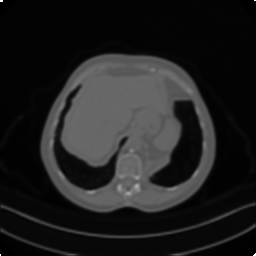
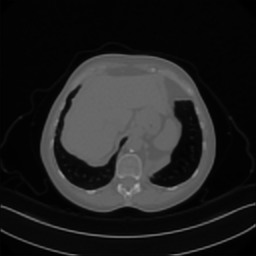
Training and Performances Log

diff --git a/MyUtilities.py b/MyUtilities.py
@@ -52,6 +52,8 @@ class MyTrainer():
         self.best_model = best_model
         self.betchTrainingValidationPrint = betchTrainingValidationPrint
         self.evalMetrich = evalMetrich
+        self.modelEvaluationOnTest = []
+        self.modelEvaluationOnImages = []
 
     def evaluate(self, samples, grad = False):
         x, y = samples # (x, y): x = grandTruth, y = LowResolution x = [x1,x2,x3....], y = [y1,y2,y3....]
@@ -95,7 +97,18 @@ class MyTrainer():
             else:
                 CumulativeEvaluation += test_Loss.item()
 
-        print(f'⚠️: Average {self.evalMetrich.__name__ if self.evalMetrich else "Loss function"} on Test Set: {CumulativeEvaluation/samplesCounter if self.evalMetrich else CumulativeEvaluation/len(self.test_loader):.4f}')
+        if self.evalMetrich:
+            key = self.evalMetrich.__name__
+            avg = CumulativeEvaluation / samplesCounter 
+        else:
+            key = "Loss function"
+            avg = CumulativeEvaluation / len(self.test_loader)
+
+        self.modelEvaluationOnTest.append({key: avg})
+
+        print(f'⚠️: Average {self.evalMetrich.__name__ if self.evalMetrich else "Loss function"} on Test Set: {avg:.4f}')
+
+        self.logTrain()
 
     def train(self):
         epochs = []
@@ -151,10 +164,10 @@ class MyTrainer():
                         # If the current cumulative validation loss is the minimum validation loss them save this model
                         if self.best_model and  avarageValidationLoss < currentBestModelValidationLoss:
                             print()
-                            print(f'⏬: Saving best model: {self.modelName}', end='\r')
+                            print(f'⏬: Saving best model: ./Results/{self.modelName}', end='\r')
                             print()
                             currentBestModelValidationLoss = avarageValidationLoss
-                            torch.save(self.model.state_dict(), f'{self.modelName}.pth')
+                            torch.save(self.model.state_dict(), f'./Results/{self.modelName}.pth')
 
                         validation_Loss_history.append(avarageValidationLoss)
 
@@ -169,8 +182,8 @@ class MyTrainer():
                     ax.relim()
                     ax.autoscale_view()
 
-                    fig.savefig(f"{self.modelName}_Training_Loss_Plot.png")
-                    print(f'✅: Saved loss plot: {self.modelName}_Training_Loss_Plot.png', end='\r')
+                    fig.savefig(f"./Results/{self.modelName}_Training_Loss_Plot.png")
+                    print(f'✅: Saved loss plot: ./Results/{self.modelName}_Training_Loss_Plot.png', end='\r')
                     print()
 
             print()
@@ -182,6 +195,8 @@ class MyTrainer():
         if self.saveModel and not self.best_model:
             print('✅: Saving model at end training: ', self.modelName)
             torch.save(self.model.state_dict(), f'{self.modelName}.pth')
+        
+        self.logTrain()
 
     def testOnImage(self, path, data_shape_HR, data_shape_LR, noise_level):
         hResolution = Image.open(path).convert('L') 
@@ -224,7 +239,40 @@ class MyTrainer():
         pred_img.save(pred_path)
         target_img.save(target_path)
 
+        self.modelEvaluationOnImages.append({f'{path}_{data_shape_LR}_to_{data_shape_HR}_{self.evalMetrich__name__ if self.evalMetrich else "Training loss"}': metric_value})
+        self.logTrain()
         return metric_value
+
+    def logTrain(self):
+
+        os.makedirs('Results', exist_ok=True)
+        # Prepare serializable representations
+        loss_fn_name = self.loss_fn.__name__ if self.loss_fn is not None else None
+        scheduler_name = type(self.scheduler).__name__ if self.scheduler is not None else None
+
+        loss_params = {
+            'FL': getattr(self.loss_fn, 'FL', None),
+            'SSIM': getattr(self.loss_fn, 'SSIM', None),
+            'MSE': getattr(self.loss_fn, 'MSE', None)
+        }
+
+        meta = {
+            'num_epochs': self.num_epochs,
+            'loss_fn': loss_fn_name,
+            'scheduler': scheduler_name,
+            'best_model': bool(self.best_model),
+            'betchTrainingValidationPrint': int(self.betchTrainingValidationPrint),
+            'loss_params': loss_params,
+            'modelEvaluationOnTest': self.modelEvaluationOnTest,
+            'modelEvaluationOnImages': self.modelEvaluationOnImages
+        }
+
+        json_path = os.path.join('Results', f'{self.modelName}.json')
+        import json
+        with open(json_path, 'w', encoding='utf-8') as f:
+            json.dump(meta, f, indent=4, ensure_ascii=False)
+        return json_path
+        
 
 class FourierLoss(nn.Module):
     def forward(self, x, y):
@@ -248,12 +296,23 @@ class SSIMLoss(nn.Module): # it compares local patches based on luminance, contr
         return 1.0 - ssim_map.mean()
     
 class Losses():
-    def FL_SSIM(self, FL=0.5, SSIM=0.5):
-        fn = lambda x, y: FL * FourierLoss()(x, y) + SSIM * SSIMLoss()(x, y)
-        fn.__name__ = "FL_SSIM" 
+    def __init__(self,FL = 0.5, SSIM = 0.8, MSE = 0.2):
+        self.FL = FL
+        self.SSIM = SSIM
+        self.MSE = MSE
+
+    def FL_SSIM(self,):
+        fn = lambda x, y: self.FL * FourierLoss()(x, y) + self.SSIM * SSIMLoss()(x, y)
+        fn.__name__ = "FL_SSIM"
+        fn.FL = self.FL
+        fn.SSIM = self.SSIM
+        fn.MSE = None
         return fn
 
-    def MSE_SSIM_FL(self, MSE=0.3, FL=0.3, SSIM=0.3):
-        fn = lambda x, y: MSE * torch.nn.MSELoss()(x, y) + FL * FourierLoss()(x, y) + SSIM * SSIMLoss()(x, y)
-        fn.__name__ = "MSE_SSIM_FL" 
+    def MSE_SSIM_FL(self):
+        fn = lambda x, y: self.MSE * torch.nn.MSELoss()(x, y) + self.FL * FourierLoss()(x, y) + self.SSIM * SSIMLoss()(x, y)
+        fn.__name__ = "MSE_SSIM_FL"
+        fn.FL = self.FL
+        fn.SSIM = self.SSIM
+        fn.MSE = self.MSE
         return fn

diff --git a/esame.py b/esame.py
@@ -95,31 +95,29 @@ testLoader = DataLoader(testSet, batch_size=betchSize, shuffle=True)
 modelUNet = UNet(in_channels=1, out_channels=1) 
 #modelUNet.load_state_dict(torch.load('./UNet_FL_SSIM.pth'))
 
-optimizerUNet = torch.optim.Adam(modelUNet.parameters(), lr=1e-4)
+optimizerUNet = torch.optim.Adam(modelUNet.parameters(), lr=5e-4)
 
 trainerUNet = MyTrainer(
     model=modelUNet, 
     train_loader=trainLoader, 
     optimizer=optimizerUNet,
-    loss_fn= Losses().MSE_SSIM_FL(MSE=0.1, FL=0.3, SSIM=0.6),
-    scheduler=torch.optim.lr_scheduler.CosineAnnealingLR(optimizerUNet, T_max=10), 
-    num_epochs=5,
+    loss_fn= Losses(MSE=0.1, FL=0.8, SSIM=0.8).MSE_SSIM_FL(),
+    scheduler=torch.optim.lr_scheduler.CosineAnnealingLR(optimizerUNet, T_max=2), 
+    num_epochs=8,
     validation_loader=validationLoader,
     test_loader=testLoader,
-    modelName="UNet_MSE_SSIM_FL",
+    modelName="UNet_MSE_SSIM_FL_0.0",
     best_model=True,
-    betchTrainingValidationPrint=5,
+    betchTrainingValidationPrint=10,
     evalMetrich=structural_similarity
     # It compares local image patches in terms of luminance, contrast, and structure, and is therefore much more sensitive to structural distortions. SSIM usually takes values between 0 and 1, where values closer to 1 indicate higher similarity.
     )
 
-
 trainerUNet.train()
 trainerUNet.test()
-print('Test on image: ', trainerUNet.testOnImage(path='./267.png', data_shape_HR=(256, 256), data_shape_LR=(128, 128), noise_level=0.005))
-
 trainerUNet.evalMetrich = peak_signal_noise_ratio
-# A larger PSNR corresponds to a smaller pixel-wise error. It remains a pixel-wise fidelity measure.
 trainerUNet.test()
+print('Test on image: ', trainerUNet.testOnImage(path='./267.png', data_shape_HR=(256, 256), data_shape_LR=(128, 128), noise_level=0.005))
+# A larger PSNR corresponds to a smaller pixel-wise error. It remains a pixel-wise fidelity measure.
 
 